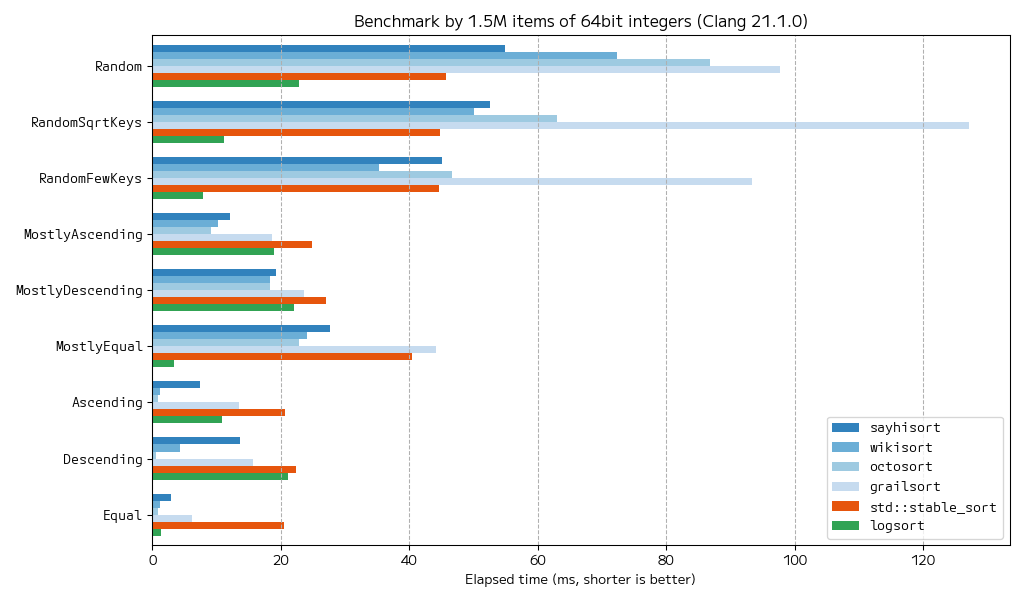
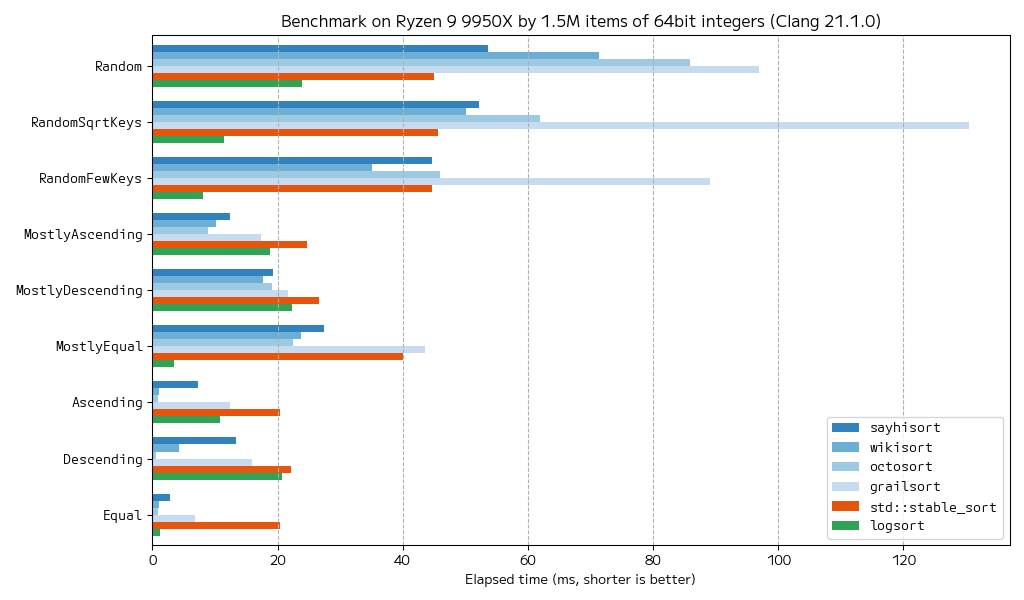
benchmark

diff --git a/bench_result/plot.py b/bench_result/plot.py
@@ -60,13 +60,13 @@ def main():
     import matplotlib as mpl
     mpl.use("Agg")
 
-    with open("clang.yml") as f:
-        libs, benches, table = load_result(f)
-        plot_data("clang.png", libs, benches, table, "Benchmark by 1.5M items of 64bit integers (Clang 21.1.0)")
-
     with open("gcc.yml") as f:
         libs, benches, table = load_result(f)
-        plot_data("gcc.png", libs, benches, table, "Benchmark by 1.5M items of 64bit integers (GCC 15.2.0)")
+        plot_data("gcc.png", libs, benches, table, "Benchmark on Ryzen 9 9950X 1.5M items of 64bit integers (GCC 15.2.0)")
+
+    with open("clang.yml") as f:
+        libs, benches, table = load_result(f)
+        plot_data("clang.png", libs, benches, table, "Benchmark on Ryzen 9 9950X by 1.5M items of 64bit integers (Clang 21.1.0)")
 
 
 if __name__ == "__main__":

diff --git a/tests/third_party/grailsort_bench_runner.cc b/tests/third_party/grailsort_bench_runner.cc
@@ -16,5 +16,5 @@ static inline int sort_comp(const uint64_t* a, const uint64_t* b) {
 #include <GrailSort.h>
 
 void RunGrailSort(std::vector<uint64_t>& data) {
-    GrailSort(data.data(), data.size());
+    GrailSortWithBuffer(data.data(), data.size());
 }

diff --git a/README.md b/README.md
@@ -1,8 +1,8 @@
 # SayhiSort
 
-**Fast and portable block merge sort implementation** written in C++17, inspired by [GrailSort](https://github.com/Mrrl/GrailSort). It's in-place, stable and runs in O(N log(N)) wort-case time complexity. The interface is compatible to `std::sort`. When compiled as C++20 or later, it's also compatible to `std::ranges::sort`.
+**Fast, portable and easy-to-use block merge sort implementation** written in C++17, inspired by [GrailSort](https://github.com/Mrrl/GrailSort). It's in-place, stable and runs in O(N log(N)) worst-case time complexity. The interface is compatible to `std::sort`. When compiled as C++20 or later, it's also compatible to `std::ranges::sort`.
 
-The implementation is **purely swap-based**. It means **no item is constructed** at runtime. Items neither default-constructible nor move-constructible are allowed, as long as they are swappable. In contrast, other implementations usually come with fixed-size buffer to cache items. Despite the absence of cache, it has **competitive performance**.
+The implementation is **purely swap-based**. It means **no item is constructed** at runtime. Items neither default-constructible nor move-constructible are allowed, as long as they are swappable. Despite the absence of any static buffer, it shows **state-of-the-art performance**.
 
 Substantial effort is made for portability and security. **No floating point number** is used, and the code is carefully written and tested to avoid overflow in any integer-like type. The code has meticulous comments that clarify mathematical invariants.
 
@@ -41,15 +41,33 @@ sahisort::sort(R&& range, Comp comp = {}, Proj proj = {});
 
 ## Benchmark
 
-You can also run the benchmark by yourself as follows.
+![Benchmark on Ryzen 9 9950X by 1.5M items of 64bit integers (GCC 15.2.0)](bench_result/gcc.yml)
+
+![Benchmark on Ryzen 9 9950X by 1.5M items of 64bit integers (Clang 21.1.0)](bench_result/clang.yml)
+
+Other block merge sort implementations [WikiSort](https://github.com/BonzaiThePenguin/WikiSort/), [octosort](https://github.com/scandum/octosort) and [GrailSort](https://github.com/Mrrl/GrailSort) uses a pre-allocated buffer that stores 512 items. The buffer is claimed to be crucial for performance, however, Sayhisort is very competitive.
+
+You may notice SayhiSort poorly performs on already sorted data compared to WikiSort and octosort. Still SayhiSort can handle those data much faster than random data, so the author believes there's no problem at all.
+
+The performance of [Logsort](https://github.com/aphitorite/Logsort) is noteworthy. It's basically a variant of Quicksort, using novel tagging technique to ensure stability. You need some caution since its worst-case time complexity is O(N^2).
+
+Raw benchmark result is available in [`bench_result`](bench_result/) directory. You can also run the benchmark by yourself as follows.
 
 ```sh
 mkdir build
 pushd build
-cmake -DSAYHISORT_THIRDPARTY_BENCH=ON -GNinja ..
+CC=gcc CXX=g++ cmake -DSAYHISORT_THIRDPARTY_BENCH=ON -GNinja ..
 popd
 ninja -C build
-build/test/sayhisort_bench
+mkdir build_clang
+pushd build_clang
+CC=clang CXX=clang++ cmake -DSAYHISORT_THIRDPARTY_BENCH=ON -GNinja ..
+popd
+ninja -C build_clang
+build/test/sayhisort_bench > bench_result/gcc.yml
+build_clang/test/sayhisort_bench > bench_result/clang.yml
+cd bench_result
+./plot.py
 ```
 
 ## Similar projects
@@ -66,11 +84,11 @@ build/test/sayhisort_bench
 
 * https://github.com/aphitorite/Logsort
 
-  Quicksort with stable partitioning. IIUC it's worst-case time complexity is O(N^2) due to simple pivot selection. It's partioning algorithm, which assigns bits to sequences' arrangement, is still very elegant.
+  Quicksort with stable partitioning, which is empirically very fast. Its partitioning algorithm, which interprets sequences' arrangement as tag bits, is very elegant. While it has O(N^2) worst-case time complexity and requires a buffer to hold log2(N) items, arguably there's room of improvements.
 
 ## Algorithm detail
 
-It's the variant of bottom-up block merge sort that
+Sayhisort is a variant of bottom-up block merge sort that
 
 * search (approximately) 2√N unique keys for imitation buffer and data buffer at first, and
 * alternately apply left-to-right merge and right-to-left merge to skip needless buffer movement, if data buffer is available.
@@ -81,7 +99,7 @@ While all algorithm code is written by the author, many ideas are given from oth
 
 Its overhead heavily depends on input data. If the data has unique keys slightly less that 2√N, it performs worst.
 
-Though it's hard to eliminate the bottleneck with no auxiliary buffer, only marginal performance drop is observed. On the `SqrtKey` benchmark, SayhiSort still performs par to `std::stable_sort` and outperforms other block merge sort implementations.
+It's hard to eliminate the bottleneck with no pre-allocated buffer, so marginal performance drop is observed. While Sayhisort's performance is still not bad, it isn't the fastest on the `RandomSqrtKey` benchmark.
 
 ### Sorting blocks
 
@@ -105,15 +123,15 @@ When the data buffer isn't available, in-place merge algorithm is required. The 
 * find the index `j` such in `xs[i] <= ys[j]` by binary searching `ys`, and
 * rotate `xs[i:]` and `ys[:j]`.
 
-The computational complexity is still linear, since the algorithm is used only if the number of unique keys is small. In practice, however, in-place merge algorithm is slower than standard one. Sayhisort avoids any auxiliary buffer, so it resorts to in-place merge in many case. This weakpoint is observed in `RandomFew` benchmark.
+The computational complexity is still linear, since the algorithm is used only if the number of unique keys is small. In practice, however, in-place merge algorithm can be slow. Sayhisort avoids any pre-allocated buffer, so it resorts to in-place merge in many case. Therefore SayhiSort doesn't 
 
 ### Sorting short sequences
 
 It takes small but non-negligible time.
 
-When the sequence length is less than or equals to 8, odd-even sort is used. It's stable and parallelizable by superscalar execution.
+When the sequence length is less than or equals to 8, odd-even sort is used. It's stable and parallelizable by superscalar execution. Specialized odd-even sort functions are dispatched by a heavily optimized loop
 
-The loop dispatching specialized odd-even sort function is heavily optimized. The author is reluctant to further optimization, because it likely bloats up inlined code size.
+The author is reluctant to further optimization, because it likely bloats up inlined code size.
 
 ### Sorting unique keys
 
